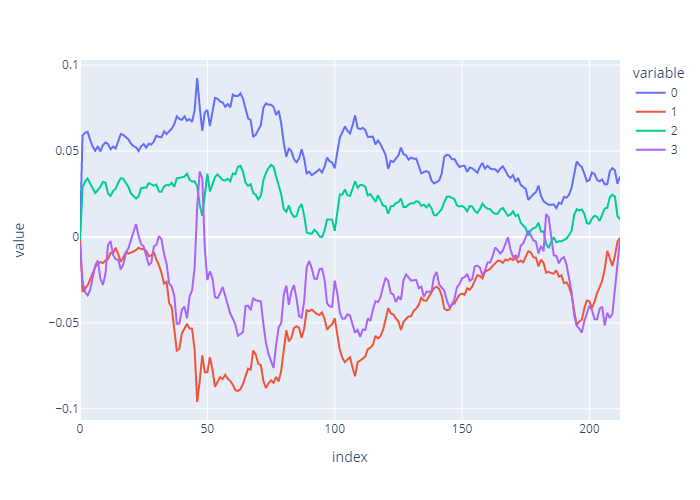
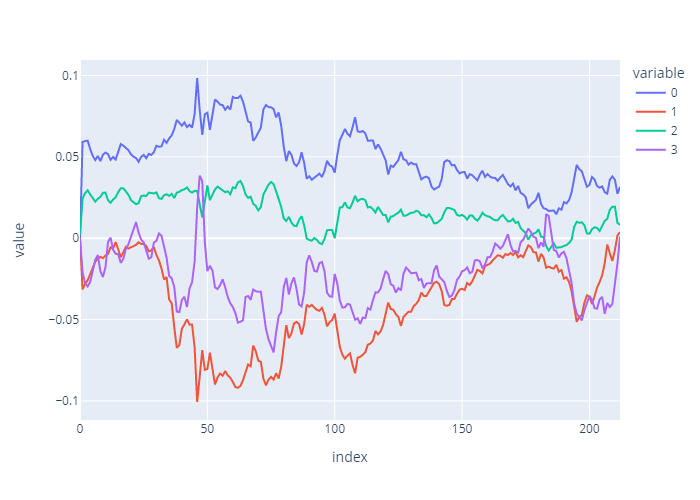
Some plotting will transfer new plots to overleaf

diff --git a/main.py b/main.py
@@ -141,25 +141,24 @@ afnspars = np.array([5.2740, 9.0130, 0.0, 0.0,
 kf = KalmanFilter(observedyield=yieldNR, obs=len(yieldNR), timestep=1 / 12)
 afnsresults = kf.kalmanfilter(pars=afnspars)
 
-# somepars = np.array([0.8740, 0, 0.0, 0.0,                                                
-#                       0, 0.5730, 0.0, 0.0,
-#                       0.0, 0.0, 0.2740, 0.0,
-#                       0.0, 0.0, 0.0, 0.5730, #KP
-#                       0.2, -0.2, 0.1, -0.1,  #thetaP
-#                       0.0154, 0.0117, 0.0154, 0.0117, #sigma
-#                       0.8244, 0.08244, 0.1
-#                       ])
+somepars = np.array([0.0030, 0, 0.0, 0.0,                                                
+                      0, 0.5730, 0.0, 0.0,
+                      0.0, 0.0, 0.2740, 0.0,
+                      0.0, 0.0, 0.0, 0.5730, #KP
+                      0.0, 0.0, 0.0, 0.0,  #thetaP
+                      0.0154, 0.0117, 0.0154, 0.0117, #sigma
+                      0.2244, 0.28244, 0.007
+                      ])
 
-# kf = KalmanFilter(observedyield=yieldNR, obs=len(yieldNR), timestep=1 / 12)
-# someresults = kf.kalmanfilter(pars=somepars)
+someresults = kf.kalmanfilter(pars=somepars)
 
 # #Finding nice seeds that fulfill pos eigen values and pos det(S):
-nice_seeds = {'i': [0], 'initialpars': [afnspars], 'initialloglike': [afnsresults], 'optpars': [],
+nice_seeds = {'i': [0], 'initialpars': [somepars], 'initialloglike': [someresults], 'optpars': [],
               'optloglike': []}
 
 i = 2
 print('finding nice_seeds') #i.e. trying to bruteforce, not going so well
-while len(nice_seeds['i']) < 2:
+while len(nice_seeds['i']) < 1:
     np.random.seed(i)
     initialpars = afnspars + np.append(np.random.uniform(-0.1, 0.1, 26),0)  # adding jiggle
     loglikefind = kf.kalmanfilter(pars=initialpars)
@@ -177,17 +176,14 @@ print(nice_seeds['i'], nice_seeds['initialloglike'])
 # Q12
 # ML estimation
 
-# def ML(initguess):
-#    f = optimize.minimize(fun=lambda pars: kf.kalmanfilter(pars=pars), x0=initguess, method='nelder-mead')
-#    return f
-if exists('Output/final_opt_params.txt'):
+if False:#exists('Output/final_opt_params.txt'):
     print("Final paramaters exists will not optimize")
 else:
     startstamp = time.time()
     for i, pars in enumerate(nice_seeds['initialpars']):
         logger.info(f'Optimizing seed {i} out of {len(nice_seeds[list(nice_seeds.keys())[0]]) - 1}...')
         MLEstimation = optimize.minimize(fun=lambda params: kf.kalmanfilter(pars=params), x0=pars, method='nelder-mead',
-                                         options={'maxiter':10800, 'maxfev':10800})
+                                         options={'maxiter':2000, 'maxfev':10800, 'adaptive':True})
         # MLEstimation = optimize.differential_evolution(func=lambda params: kf.kalmanfilter(pars=params), bounds=[(-10,10)], x0=pars, maxiter=1000) #, method='nelder-mead'
                                          
         nice_seeds['optpars'].append(MLEstimation.x)
@@ -207,7 +203,7 @@ else:
 # -23715279.44657981, -19133138.82950106]
 
 print('===============Q12===============')
-if exists('Output/final_opt_params.txt'):
+if False:# exists('Output/final_opt_params.txt'):
     filehandler = open('Output/final_opt_params.txt', 'r')
     final_opt_params = []
     with open('Output/final_opt_params.txt', 'r') as file:
@@ -222,8 +218,7 @@ else:
             filehandle.write(f'{param}\n')
 
 print(final_opt_params)
-finalXt, finalPt, finalImplYields, finalRes, finalK, finalTheta, finalSigma, finalA, finalBmatrix, \
-finalLambda_N, finalLambda_R, finalXdata = kf.kalmanFilterFinal(final_opt_params)
+finalImplYields, finalK, finalTheta, finalSigma, finalXdata = kf.kalmanFilterFinal(final_opt_params)
 
 px.line(finalXdata).write_image('Output/FilteredStateVariables.png')
 
@@ -253,54 +248,66 @@ def betamark(k, beta, rho_1):
     # AlphaPrime = (theta @ k).T @ B + 0.5 * B.T @ sigma @ B
     return -rho_1 + k.T @ beta
 
-
-def RG(funalpha, funbeta, timestep, wa, wb, tau):
-    alpha = [wa]
-    beta = [wb]
-    # obs = int(tau/timestep)
-    obs=int(1/timestep*tau)
+def RK(funalpha, funbeta, timestep, wa, wb, tau, X):
+    # alpha = [wa]
+    # beta = [wb]
+    alpha = wa
+    beta = wb
+    obs = int(tau/timestep)
+    
     for ob in range(obs):
-        k1 = timestep * funbeta(beta[ob])
-        k2 = timestep * funbeta(beta[ob] + 0.5 * k1)
-        k3 = timestep * funbeta(beta[ob] + 0.5 * k2)
-        k4 = timestep * funbeta(beta[ob] + k3)
+        k1 = timestep * funbeta(beta)
+        k2 = timestep * funbeta(beta + 0.5 * k1)
+        k3 = timestep * funbeta(beta + 0.5 * k2)
+        k4 = timestep * funbeta(beta + k3)
 
-        beta.append(beta[ob] + (1 / 6) * (k1 + 2 * k2 + 2 * k3 + k4))
+        l1 = timestep * funalpha(beta)
+        l2 = timestep * funalpha(beta + 0.5 * k1)
+        l3 = timestep * funalpha(beta + 0.5 * k2)
+        l4 = timestep * funalpha(beta + k3)
+        
+        # beta.append(beta[ob] + (1 / 6) * (k1 + 2 * k2 + 2 * k3 + k4))
+        beta = beta + (1 / 6) * (k1 + 2 * k2 + 2 * k3 + k4)
 
-        l1 = timestep * funalpha(beta[ob])
-        l2 = timestep * funalpha(beta[ob] + 0.5 * k1)
-        l3 = timestep * funalpha(beta[ob] + 0.5 * k2)
-        l4 = timestep * funalpha(beta[ob] + k3)
+        # alpha.append(alpha[ob] + (1 / 6) * (l1 + 2 * l2 + 2 * l3 + l4))
+        alpha = alpha + (1 / 6) * (l1 + 2 * l2 + 2 * l3 + l4)
+    return -(alpha+beta.T @ X)/tau
 
-        alpha.append(alpha[ob] + (1 / 6) * (l1 + 2 * l2 + 2 * l3 + l4))
-    return alpha, beta
-
-
-RKalpha, RKbeta = [],[]
-
-#Trying to plot inflations
-tenors = [2,5,10]
-for ten in tenors: 
-    runge=RG(funalpha=lambda B:alphamark(beta=B, k=finalK, theta=finalTheta, sigma=finalSigma), funbeta=lambda B:betamark(k=finalK, beta=B, rho_1=rho1), timestep=1/100, wa=0, wb=np.zeros(4), tau=ten)
-    RKalpha.append(runge[0])
-    RKbeta.append(runge[1])
-
-inflationdf={'2':np.array([]),'5':np.array([]), '10':np.array([])}
-
-for i in range(len(tenors)):
-    inflationdf[str(tenors[i])]=np.append(inflationdf[str(tenors[i])],[(RKalpha[i][-1]+RKbeta[i][-1].T @ finalXdata.loc[x])/(-tenors[i]) for x in range(len(finalXdata))])
+inflation={'2':None, '5':None, '10':None}
+tenors=[2,5,10]
+for tau in tenors:
+    inflation[str(tau)]=[RK(funalpha=lambda B:alphamark(beta=B, k=finalK, theta=finalTheta, sigma=finalSigma), \
+                          funbeta=lambda B:betamark(k=finalK, beta=B, rho_1=rho1), \
+                          timestep=1/12, \
+                          wa=0, \
+                          wb=np.zeros(4), \
+                          tau=tau, \
+                          X=finalXdata.iloc[i].values) \
+                          for i in range(len(finalXdata)-1)]
 
 
 #This is not nice i know quick fix, if you know better please correct
-px.line(pd.DataFrame(inflationdf)).write_image('Output/Inflation.png')
+px.line(pd.DataFrame(inflation)).write_image('Output/Inflation.png')
+
+print('===============Q16===============')
 
 
+irp={'2':None, '5':None, '10':None}
+irp['2'] = finalImplYields[0].values-finalImplYields[5].values-np.array(inflation['2'])
+irp['5'] = finalImplYields[2].values-finalImplYields[7].values-np.array(inflation['5'])
+irp['10']= finalImplYields[4].values-finalImplYields[9].values-np.array(inflation['10'])
+
+px.line(pd.DataFrame(irp)).write_image('Output/InflationRiskPremium.png')
 
 
+print('===============Q17===============')
+#Also making a model BEI:
+modelBEI={'2':None, '5':None, '10':None}
+modelBEI['2'] = inflation['2']+irp['2']
+modelBEI['5'] = inflation['5']+irp['5']
+modelBEI['10']= inflation['10']+irp['10']
 
-
-
-
+px.line(pd.DataFrame(modelBEI)).write_image('Output/modelBEI.png')
 print('done')
 
 

diff --git a/Runge_Kutta_and_Implied_Inflation.py b/Runge_Kutta_and_Implied_Inflation.py
@@ -2,11 +2,16 @@ import numpy as np
 import pandas as pd
 
 # for i in range(len(tenors)):
+
+
+
+
+
 TP = finalTheta
 Sig = finalSigma
 H0 = Sig @ Sig.T
 KP = finalK
-TPKPTrans = TP @ KP.T
+TPKPTrans = (KP @ TP).T
 rho1 = np.array([1,1,-1,-1])
 
 def betamark(beta):
@@ -19,15 +24,15 @@ def alphamark(beta):
     alphamark = np.matmul(TPKPTrans,beta)+(1/2)*np.matmul(bTH0, beta)
     return alphamark
 
-def runge(endtime, beta0list, alpha0, h = 1/12, beta=False, alpha=False):
+def runge(tau, beta0list, alpha0, h, Xt):
     #Choose endtime = years, beta0list = [0,0,0,0] and alpha0=[0]
     # Returns a dict with keys as timestep ie 1/12, 2/12...
     #and first 4 values as betavalues and last as alphavalue
-    n=(int)((endtime-beta0list[0])/h)
+    n=int(tau/h)
     betdict = {0: np.append(beta0list,alpha0)}
     allbetas = []
     allalphas = []
-    for i in range(1,n+1):
+    for i in range(1,n):
         k1b = h * betamark(beta0list)
         k1a = h * alphamark(beta0list)
         k2b = h * betamark(beta0list+0.5*k1b)
@@ -42,29 +47,28 @@ def runge(endtime, beta0list, alpha0, h = 1/12, beta=False, alpha=False):
 
         pair = np.append(beta0list, alpha0)
         betdict.update({h*i: pair})
-        allbetas.append(beta0list)
-        allalphas.append(alpha0)
+        #allbetas.append(beta0list)
+        #allalphas.append(alpha0)
         
-    if beta == True:
-        return np.array([l.tolist() for l in allbetas])
 
-    if alpha == True:
-        return np.array(allalphas)
-
-    else:
-        return betdict
-
-alphavalues = runge(endtime = 10, beta0list=[0,0,0,0], alpha0=0, alpha = True)
-betavalues = runge(endtime = 10, beta0list=[0,0,0,0], alpha0=0, beta = True)
+    return np.exp(alpha0 - np.transpose(beta0list) @ Xt)
 
 
-Xt = finalXdata
 
+
+
+inf2 = []
+for i in range(len(finalXdata)):
+    inflation = -np.log(runge(tau = 10, beta0list = [0,0,0,0], alpha0 = 0, h = 1/100, Xt = finalXdata.iloc[i].values))/10
+    inf2.append(inflation)
+
+print(inf2)
+
+'''
 def mod_imp_inf(tau):
     list_of_imp_inf = []
-    for i in range(len(finalXdata)):
-        result = (alphavalues[-1]+np.matmul(np.transpose(betavalues[-1]),finalXdata.iloc[i]))/(-tau)
+    for i in range(len(alphavalues)):
+        result = (alphavalues[i]+np.matmul(np.transpose(betavalues[i]),Xt))/(-tau)
         list_of_imp_inf.append(result)
     return list_of_imp_inf
-
-print(mod_imp_inf(10))
+'''

diff --git a/kalmanfilter.py b/kalmanfilter.py
@@ -278,5 +278,4 @@ class KalmanFilter(NelsonSiegel):
 
         impliedYield_final_df = pd.DataFrame(impliedYield_final)
         finalXdata = pd.DataFrame(finalXdata)
-        return self.Xt, self.Pt, impliedYield_final_df, self.res, self.K, self.Theta, self.Sigma, \
-               self.A, self.Bmatrix, self.lambda_N, self.lambda_R, finalXdata
+        return impliedYield_final_df, self.K, self.Theta, self.Sigma, finalXdata
